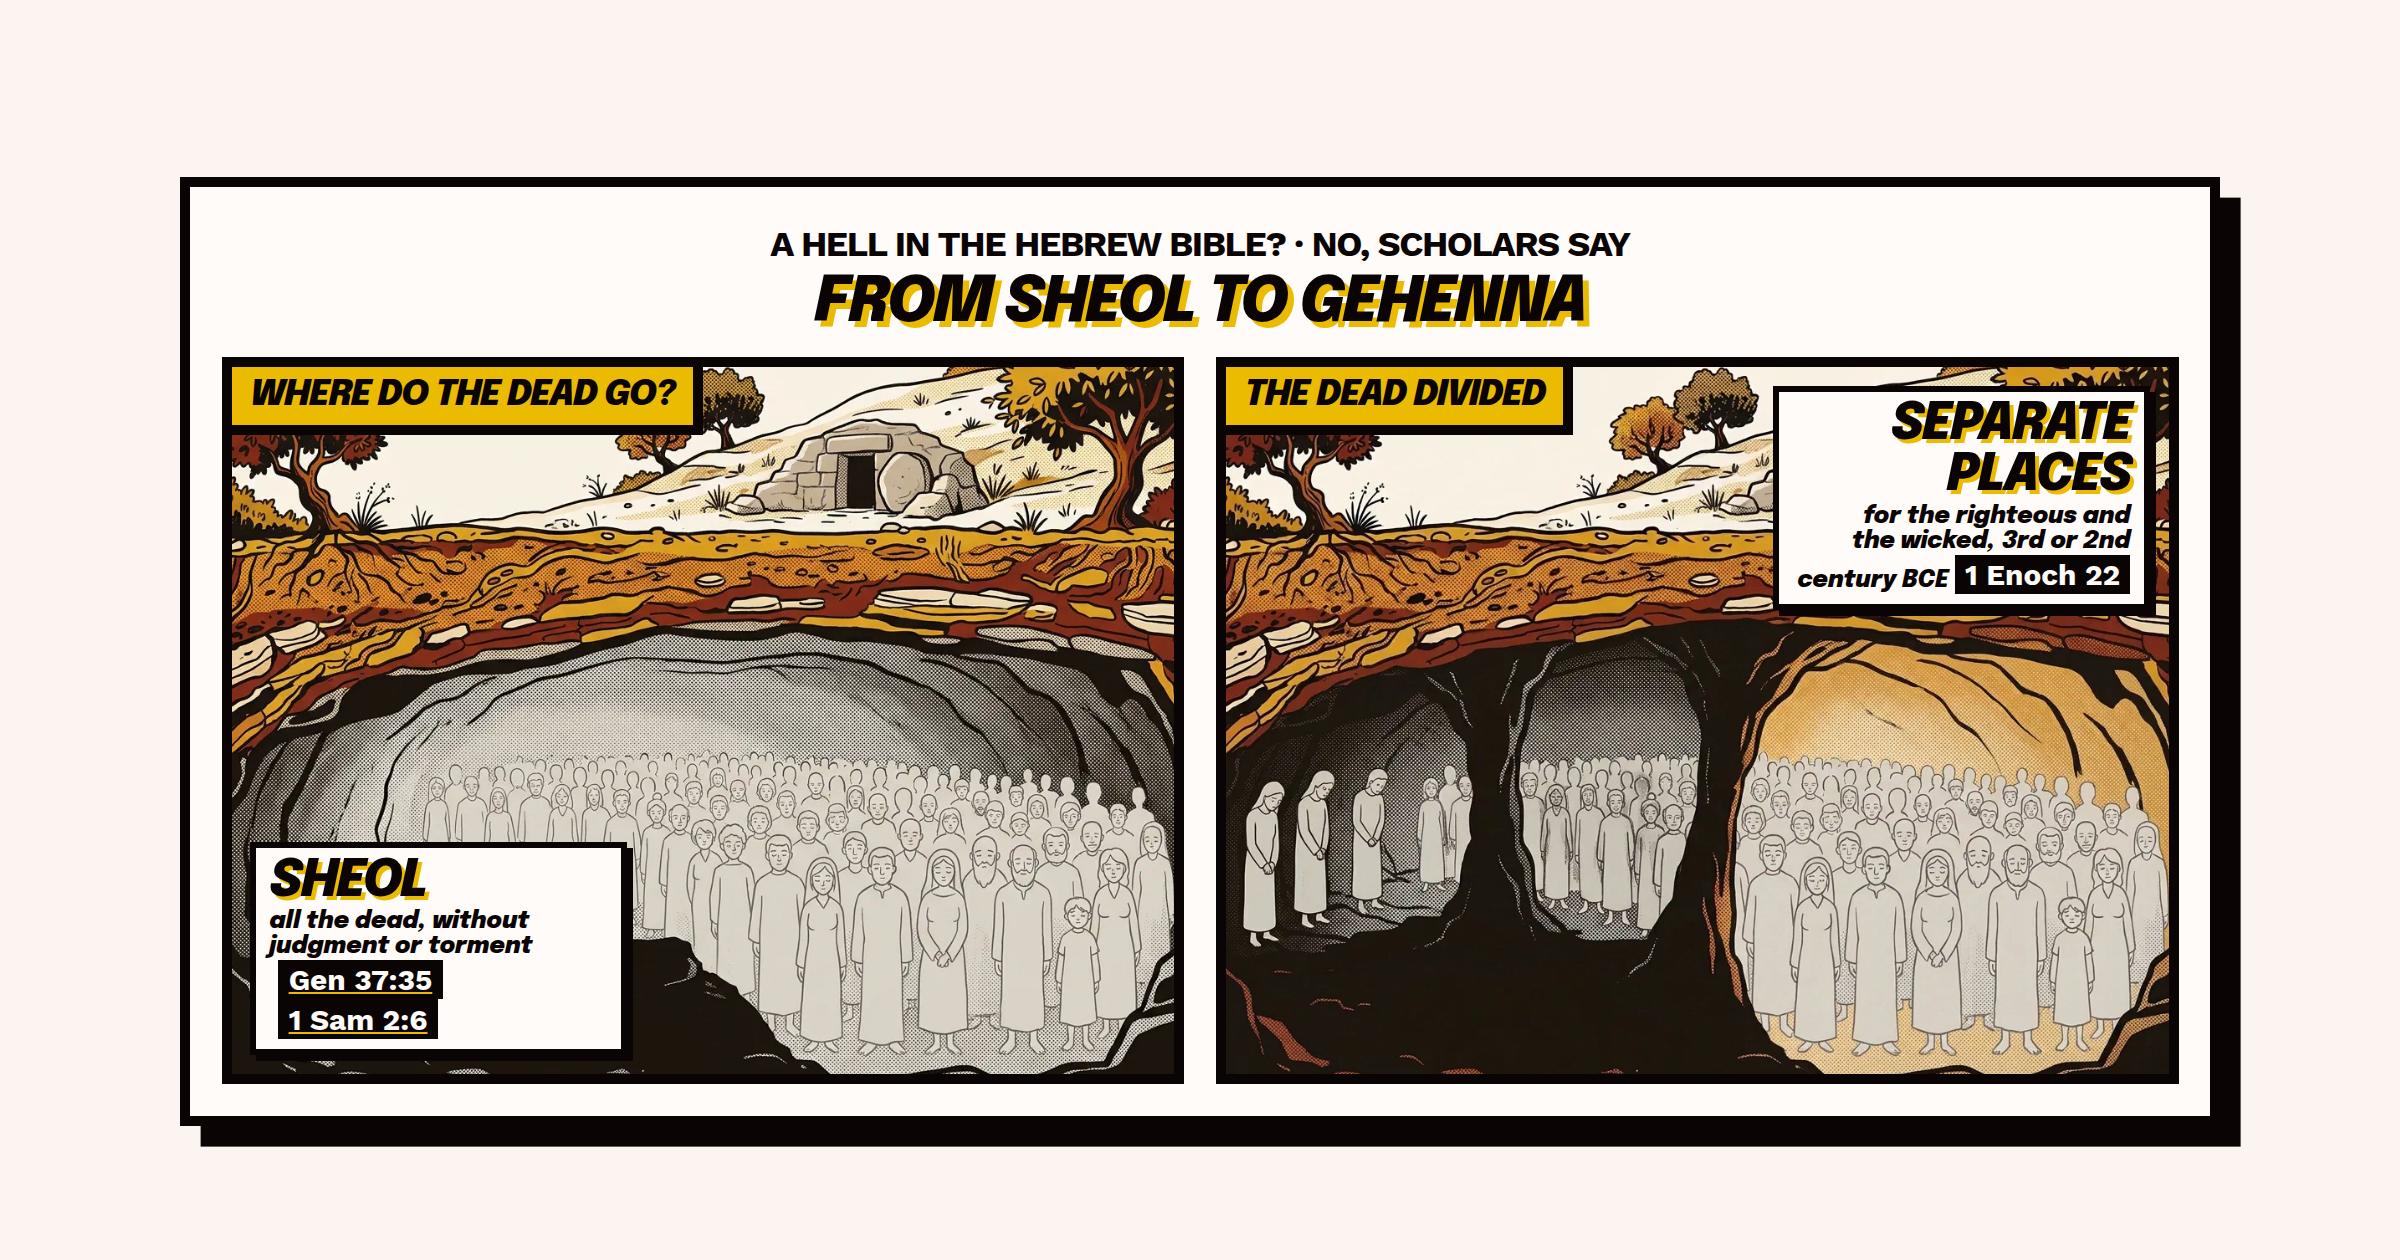
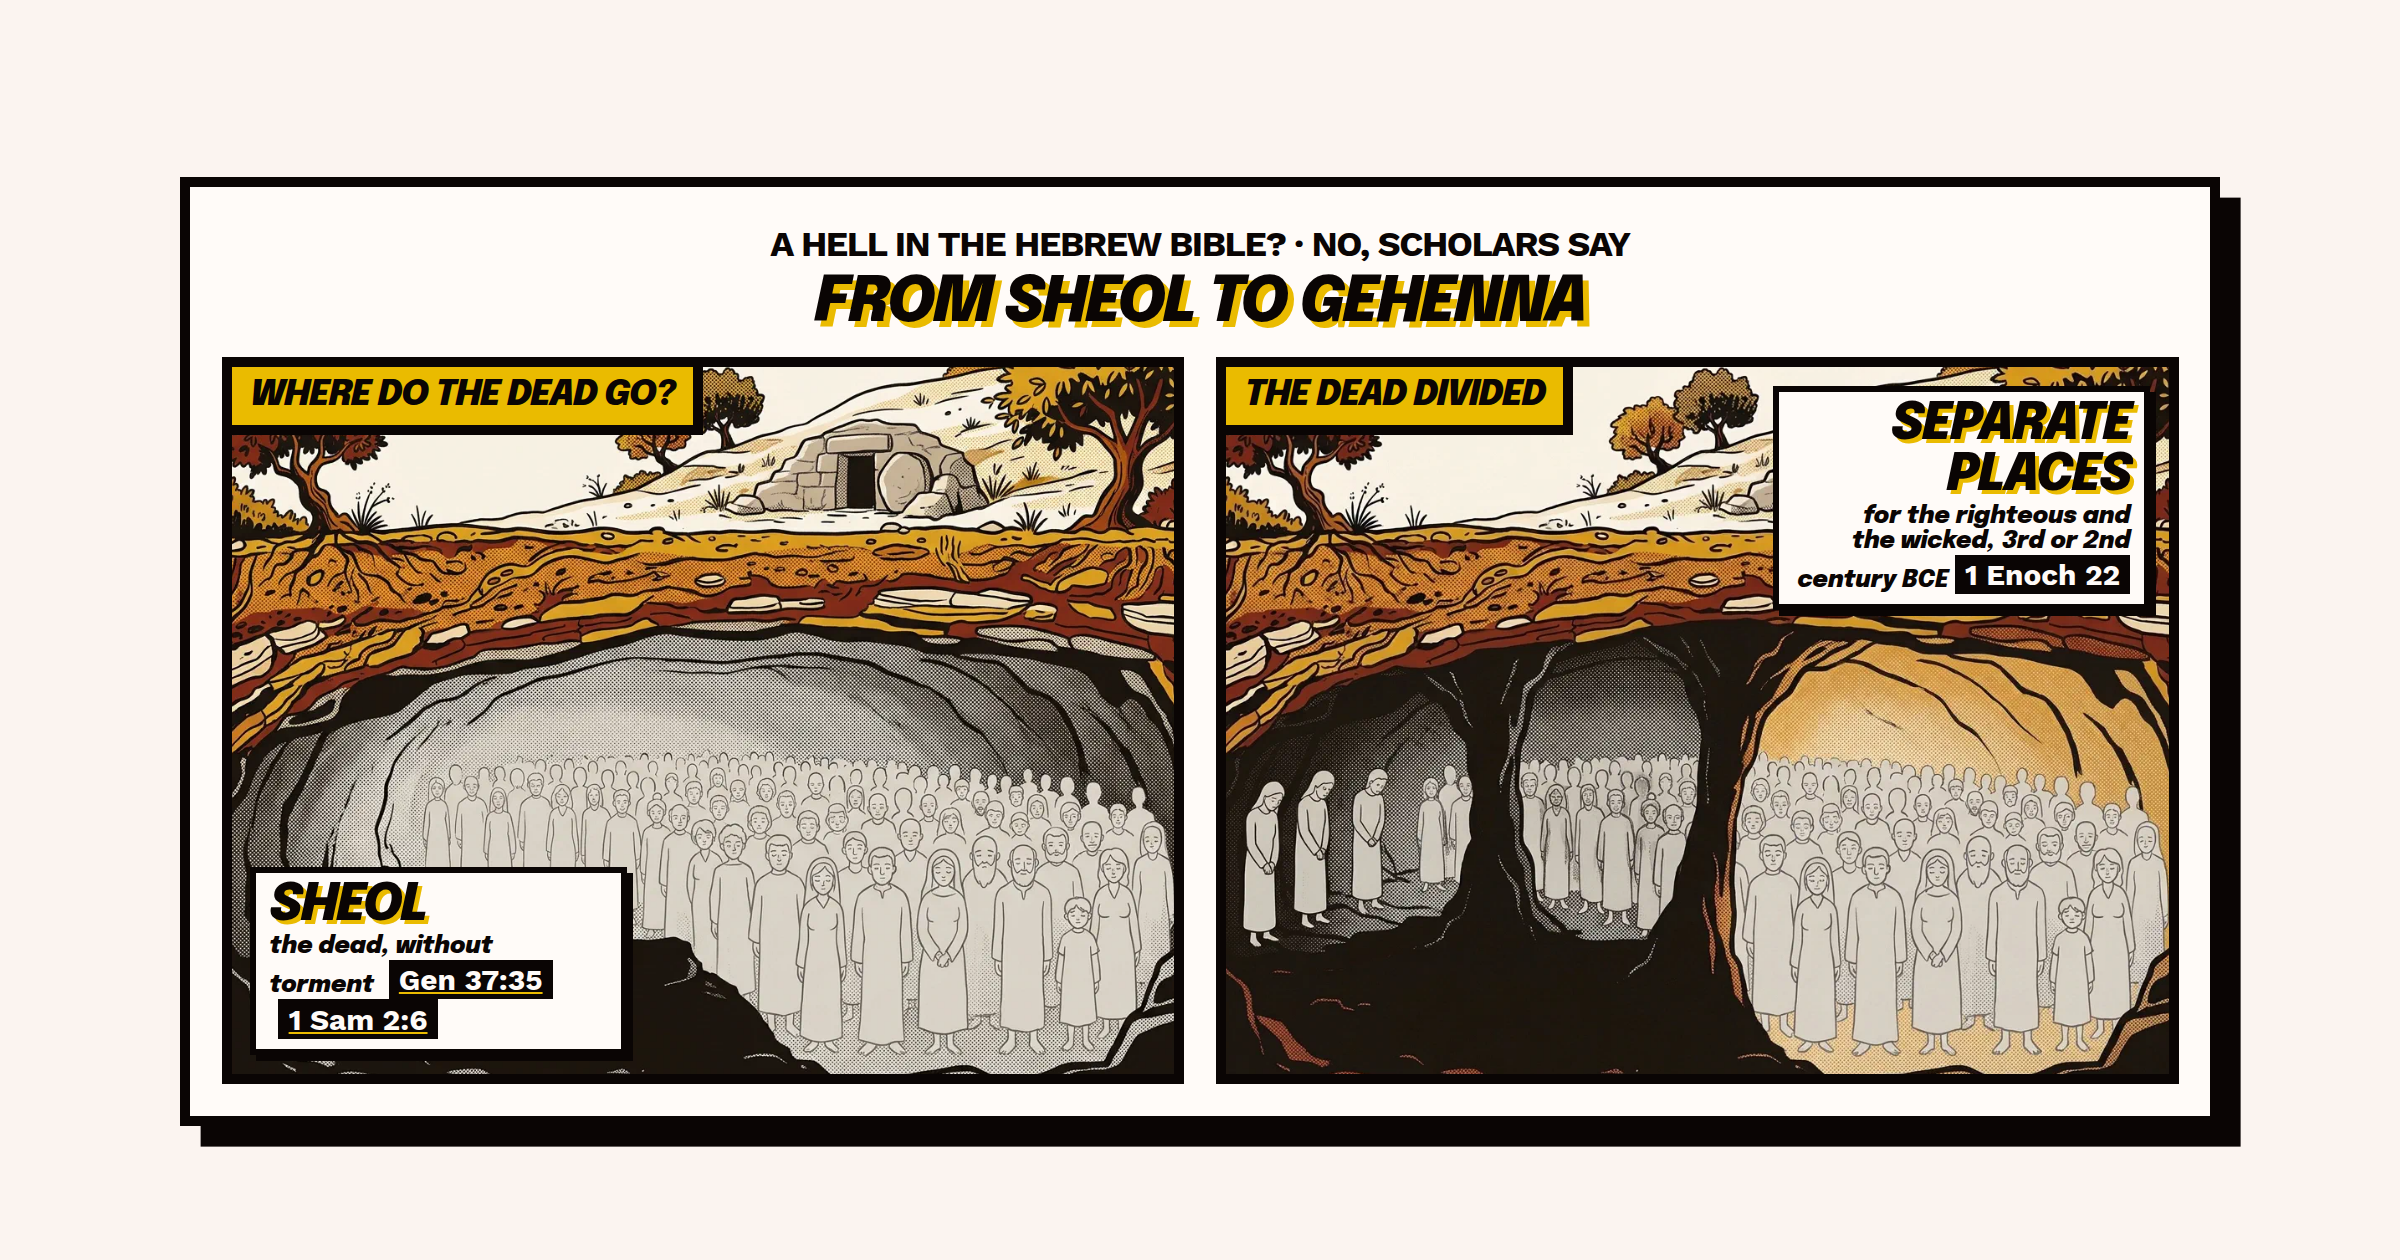
Re-review The Origins of Hell leads (#239)
Delegated partial re-review of the #239 leads. Read and cited in Google
Books previews: Johnston, Shades of Sheol, and Levenson, Resurrection
and the Restoration of Israel, as the attributed dissent on whether
Sheol held all the dead; Bauckham, The Fate of the Dead (1998 reprint
of "Early Jewish Visions of Hell"), on 1 Enoch's place of punishment in
the valley of Hinnom. Buitendag's Hades reading and his account of
Calvin added to descent's text. Kimhi read at Sefaria, uncited (primary
text). Bailey, Reich and Shukron, Davies and Allison, Johnston's NIDB
entry, Bernstein, Raisanen, Himmelfarb and Kelly closed with reasons.

Independent second pass: 7/7 new quotes matched; sheol short narrowed
to "without torment". Sheol card regenerated; infographic sheol plate
follows the short; poster and card re-rendered.

Changed region(s): [[0.0938, 0.65, 0.2812, 0.8048]]

diff --git a/hugo/layouts/partials/scholarship-custom/the-origins-of-hell.html b/hugo/layouts/partials/scholarship-custom/the-origins-of-hell.html
@@ -1,7 +1,7 @@
 {{- /*
   Custom block for /scholarship/the-origins-of-hell/: a five-panel comic
   page in time order, with two settings each drawn twice. Sheol, one
-  shadowy underworld holding all the dead alike; the Valley of Hinnom, a real
+  shadowy underworld of the dead; the Valley of Hinnom, a real
   valley by Jerusalem; the same underworld divided into separate places in
   1 Enoch; Daniel 12's dead rising to life or to disgrace; and the same
   valley, in the New Testament, the fiery place where sinners are punished.
@@ -38,7 +38,7 @@
   (dict
   "id" "sheol" "box" "Where do the dead go?"
   "plates" (slice
-  (dict "pos" "bl" "big" "Sheol" "sub" "all the dead, without judgment or torment" "refs" (slice (dict "ref" "Genesis 37:35" "label" "Gen 37:35" "link" true) (dict "ref" "1 Samuel 2:6" "label" "1 Sam 2:6" "link" true)))))
+  (dict "pos" "bl" "big" "Sheol" "sub" "the dead, without torment" "refs" (slice (dict "ref" "Genesis 37:35" "label" "Gen 37:35" "link" true) (dict "ref" "1 Samuel 2:6" "label" "1 Sam 2:6" "link" true)))))
   (dict
   "id" "hinnom" "box" "What is Gehenna?"
   "plates" (slice

diff --git a/hugo/content/scholarship/the-origins-of-hell.md b/hugo/content/scholarship/the-origins-of-hell.md
@@ -26,8 +26,8 @@ statements:
   - id: sheol
     group: "The Hebrew Bible"
     question: "Is there a hell in the Hebrew Bible?"
-    short: "No, scholars say. The Hebrew Bible's Sheol is a shadowy underworld of the dead, without judgment or torment."
-    text: "Shawna Dolansky's Bible Odyssey article says the Hebrew Bible never describes a fiery place of eternal torment for sinners, and that Sheol holds all of the dead without judgment or torment. Meghan Henning's Bible Odyssey article says Sheol, the Pit and Abaddon can all name a space that holds all of the dead, righteous and unrighteous, with no torment for the dead there. Carol Bakhos's introduction in the Posen Library says the notion that the wicked will be eternally tormented in hell does not appear in the Hebrew Bible. Christine Hayes's Yale lectures say Sheol is an ancient Israelite notion of a shadowy place beneath the soil, not connected with reward or punishment after death. Shaul Shaked's entry in the Encyclopaedia Iranica, setting out the case for Zoroastrian influence, says there was no notion of heaven and hell up to the end of the Old Testament period. The UBS translators' handbook on Genesis says Sheol was regarded as a dark and gloomy place where all the dead were, and should not be translated by a word for “hell”, a place of punishment. The New American Bible's note on Psalm 6 calls Sheol the underworld where the souls of the dead dwelt, similar to the Greek Hades. Matthew Suriano's article in the Journal of Hebrew Scriptures adds that Sheol was not the sum of all burials but a metaphor for the marginalizing experience of dying, an intermediary stage every person endured in death."
+    short: "No, scholars say. The Hebrew Bible's Sheol is a shadowy underworld of the dead, without torment."
+    text: "Shawna Dolansky's Bible Odyssey article says the Hebrew Bible never describes a fiery place of eternal torment for sinners, and that Sheol holds all of the dead without judgment or torment. Meghan Henning's Bible Odyssey article says Sheol, the Pit and Abaddon can all name a space that holds all of the dead, righteous and unrighteous, with no torment for the dead there. Carol Bakhos's introduction in the Posen Library says the notion that the wicked will be eternally tormented in hell does not appear in the Hebrew Bible. Christine Hayes's Yale lectures say Sheol is an ancient Israelite notion of a shadowy place beneath the soil, not connected with reward or punishment after death. Shaul Shaked's entry in the Encyclopaedia Iranica, setting out the case for Zoroastrian influence, says there was no notion of heaven and hell up to the end of the Old Testament period. The UBS translators' handbook on Genesis says Sheol was regarded as a dark and gloomy place where all the dead were, and should not be translated by a word for “hell”, a place of punishment. The New American Bible's note on Psalm 6 calls Sheol the underworld where the souls of the dead dwelt, similar to the Greek Hades. Matthew Suriano's article in the Journal of Hebrew Scriptures adds that Sheol was not the sum of all burials but a metaphor for the marginalizing experience of dying, an intermediary stage every person endured in death. Philip Johnston's Shades of Sheol and Jon Levenson's Resurrection and the Restoration of Israel question whether Sheol awaited everyone: Johnston concludes that the term is almost exclusively reserved for those under divine judgment, whether the wicked, the afflicted righteous or all sinners, and Levenson that Sheol very often has to do with punishment, so that those who died in God's favor, their lives fulfilled, had no reason to expect it."
     cites:
       - source: dolansky-bo-sheol
         locator: "opening paragraph"
@@ -74,6 +74,21 @@ statements:
         locator: "§ Conclusion, p. 31"
         quote: "Sheol was the intermediary stage that every person endured in death."
         read: 2026-11-26
+      - source: johnston-2002-shades-of-sheol
+        url: "https://books.google.com/books?id=_roxMWABO78C&pg=PA83"
+        locator: "chapter 3, “The Unwelcome Underworld”, p. 83"
+        quote: "In conclusion, Sheol cannot be identified simply as the Hebrew term for the underworld which awaits all. It is almost exclusively reserved for those under divine judgment, whether the wicked, the afflicted righteous, or all sinners."
+        read: 2026-11-27
+      - source: levenson-2006-resurrection
+        url: "https://books.google.com/books?id=iv9l8vgL1iAC&pg=PA72"
+        locator: "chapter 4, “Are Abraham, Moses, and Job in Sheol?”, p. 72"
+        quote: "There is, however, ample room to wonder whether in Israelite thought before the idea of resurrection appears Sheol really was always assumed to be the universal destination."
+        read: 2026-11-27
+      - source: levenson-2006-resurrection
+        url: "https://books.google.com/books?id=iv9l8vgL1iAC&pg=PA73"
+        locator: "chapter 4, “Are Abraham, Moses, and Job in Sheol?”, p. 73"
+        quote: "Sheol, in sum, very often has to do with punishment, and those who die in God's good graces, their lives fulfilled through his blessings, therefore have no reason to think that they will be dispatched to Gray's “wholly unpleasant” existence in the dark, dank netherworld."
+        read: 2026-11-27
   - id: the-dead
     group: "The Hebrew Bible"
     question: "Did ancient Israelites believe the dead lived on?"
@@ -257,7 +272,7 @@ statements:
     group: "Gehenna"
     question: "When did Gehenna become a place of punishment?"
     short: "After the Hebrew Bible, in Jewish apocalyptic writing such as 1 Enoch, whose “accursed valley” is not named. Sources differ on whether the name Gehenna was used for the place of punishment before the New Testament."
-    text: "The HarperCollins Bible Dictionary says that, probably because of its associations with fiery destruction and judgment, the word Gehenna came to be used metaphorically during the intertestamental period for hell or eternal damnation, and that the New Testament uses it only in this way. Meghan Henning's Bible Odyssey article says that in apocalyptic books written between the Hebrew Bible and the New Testament, such as 1 Enoch, Gehenna began to be associated with fire, judgment and punishment, so that by the time Mark or Matthew wrote, people already thought of it as a fiery place of punishment. Nicolas Wyatt's article in Numen finds the cosmology later attached to the valley already in 1 Enoch 26–27, where the valley is the place of judgment and not yet a symbol of some transcendent location. The New American Bible's note on Matthew 5:22 says punishment of sinners by fire is found in Jewish apocalyptic literature, but that the name Gehenna is first given to the place of punishment in the New Testament. Kim Papaioannou's article in the Melanesian Journal of Theology reports the common belief that a Gehenna tradition came to full bloom in intertestamental Jewish literature, and argues against it: the valley of 1 Enoch 27 is unnamed, and the Gospels are the earliest writings after Jeremiah to mention Gehenna in an eschatological context."
+    text: "The HarperCollins Bible Dictionary says that, probably because of its associations with fiery destruction and judgment, the word Gehenna came to be used metaphorically during the intertestamental period for hell or eternal damnation, and that the New Testament uses it only in this way. Meghan Henning's Bible Odyssey article says that in apocalyptic books written between the Hebrew Bible and the New Testament, such as 1 Enoch, Gehenna began to be associated with fire, judgment and punishment, so that by the time Mark or Matthew wrote, people already thought of it as a fiery place of punishment. Nicolas Wyatt's article in Numen finds the cosmology later attached to the valley already in 1 Enoch 26–27, where the valley is the place of judgment and not yet a symbol of some transcendent location. The New American Bible's note on Matthew 5:22 says punishment of sinners by fire is found in Jewish apocalyptic literature, but that the name Gehenna is first given to the place of punishment in the New Testament. Kim Papaioannou's article in the Melanesian Journal of Theology reports the common belief that a Gehenna tradition came to full bloom in intertestamental Jewish literature, and argues against it: the valley of 1 Enoch 27 is unnamed, and the Gospels are the earliest writings after Jeremiah to mention Gehenna in an eschatological context. Richard Bauckham's study of early Jewish visions of hell says that on his tour in 1 Enoch, Enoch sees the place of punishment for the wicked after the last judgment, located literally in the valley of Hinnom, though the punishment itself is not described."
     cites:
       - source: harpercollins-2009-dictionary
         url: "https://www.bibleodyssey.org/dictionary/gehenna/"
@@ -296,6 +311,11 @@ statements:
         locator: "§3, “Gehenna in the NT”, p. 14"
         quote: "As such, they are the earliest writings to mention Gehenna in an eschatological context after Jeremiah."
         read: 2026-11-26
+      - source: bauckham-1998-fate-of-the-dead
+        url: "https://books.google.com/books?id=MKMJnnpbYxAC&pg=PA53"
+        locator: "chapter 2, “Early Jewish Visions of Hell”, §2 “Enoch's Cosmic Tours”, p. 53"
+        quote: "In this second version of the tour, Enoch also sees the place of punishment for the wicked after the last judgment (located literally in the valley of Hinnom: 26:3-27:4)"
+        read: 2026-11-27
   - id: rubbish-dump
     group: "Gehenna"
     question: "Was Gehenna a burning rubbish dump?"
@@ -598,7 +618,7 @@ statements:
     group: "After the New Testament"
     question: "When did “he descended into hell” enter the Apostles' Creed?"
     short: "By about 400, sources say: Rufinus reported it in the version of the Apostles' Creed used at Aquileia."
-    text: "The New Catholic Encyclopedia's entry on the descent of Christ into hell says “hell” here corresponds to Sheol, Hades and the Latin infernus and means the abode of souls after death, not the Gehenna of fire or the punishment of Tartarus, and that the descent began to appear in the creeds in the fifth century, when Rufinus, around 400, testified that it was in the Apostles' Creed used at Aquileia. Johan Buitendag's article in HTS Teologiese Studies says that through Rufinus the clause found a place in the Apostles' Creed in the fourth century. On 1 Peter 3:19, where Christ preaches to the spirits in prison, the New American Bible's note says it is not clear who the spirits in prison are: the spirits of those who died in the flood, or hostile angelic powers. The encyclopedia says Clement of Alexandria first linked the verse with Christ's descent, and Buitendag says he seems to have been the first."
+    text: "The New Catholic Encyclopedia's entry on the descent of Christ into hell says “hell” here corresponds to Sheol, Hades and the Latin infernus and means the abode of souls after death, not the Gehenna of fire or the punishment of Tartarus, and that the descent began to appear in the creeds in the fifth century, when Rufinus, around 400, testified that it was in the Apostles' Creed used at Aquileia. Johan Buitendag's article in HTS Teologiese Studies says that through Rufinus the clause found a place in the Apostles' Creed in the fourth century. On 1 Peter 3:19, where Christ preaches to the spirits in prison, the New American Bible's note says it is not clear who the spirits in prison are: the spirits of those who died in the flood, or hostile angelic powers. The encyclopedia says Clement of Alexandria first linked the verse with Christ's descent, and Buitendag says he seems to have been the first. Buitendag also says the creed's inferna, taken from Ephesians 4:9, corresponds to the Greek Hades, which, like the Hebrew Sheol, signifies the abode of all the departed, both the righteous and the wicked; Calvin and the Heidelberg Catechism, he says, substituted for it the concept of hell as Gehenna, so that the descent is read figuratively, as an experience of Godforsakenness."
     cites:
       - source: quinn-rohling-nce-descent
         locator: "s.v. “Descent of Christ into Hell”, opening"
@@ -628,6 +648,18 @@ statements:
         locator: "note on 1 Peter 3:19"
         quote: "The spirits in prison: it is not clear just who these spirits are. They may be the spirits of the sinners who died in the flood, or angelic powers, hostile to God, who have been overcome by Christ"
         read: 2026-11-26
+      - source: buitendag-2009-descendit
+        locator: "section “Cosmology”"
+        quote: "This word is taken from Ephesians 4:9 and corresponds to the Greek word Hades, which occurs eleven times in the New Testament and is often incorrectly translated as 'hell'. Hades signifies, like the Hebrew word sheol, the unseen spirit–world, the abode of all the departed, both the righteous and the wicked."
+        read: 2026-11-27
+      - source: buitendag-2009-descendit
+        locator: "Introduction, list of dogmatic challenges"
+        quote: "Calvin and the Heidelberg Catechism (Question & Answer 44) avoided this spatial aspect of the term 'underworld' by substituting the anachronistic concept of 'hell' for it."
+        read: 2026-11-27
+      - source: buitendag-2009-descendit
+        locator: "Introduction, list of dogmatic challenges"
+        quote: "The descensus is, in other words, interpreted figuratively and is taken merely as an experience of Godforsakenness."
+        read: 2026-11-27
   - id: traditions
     group: "After the New Testament"
     question: "What do Christian traditions teach about hell today?"
